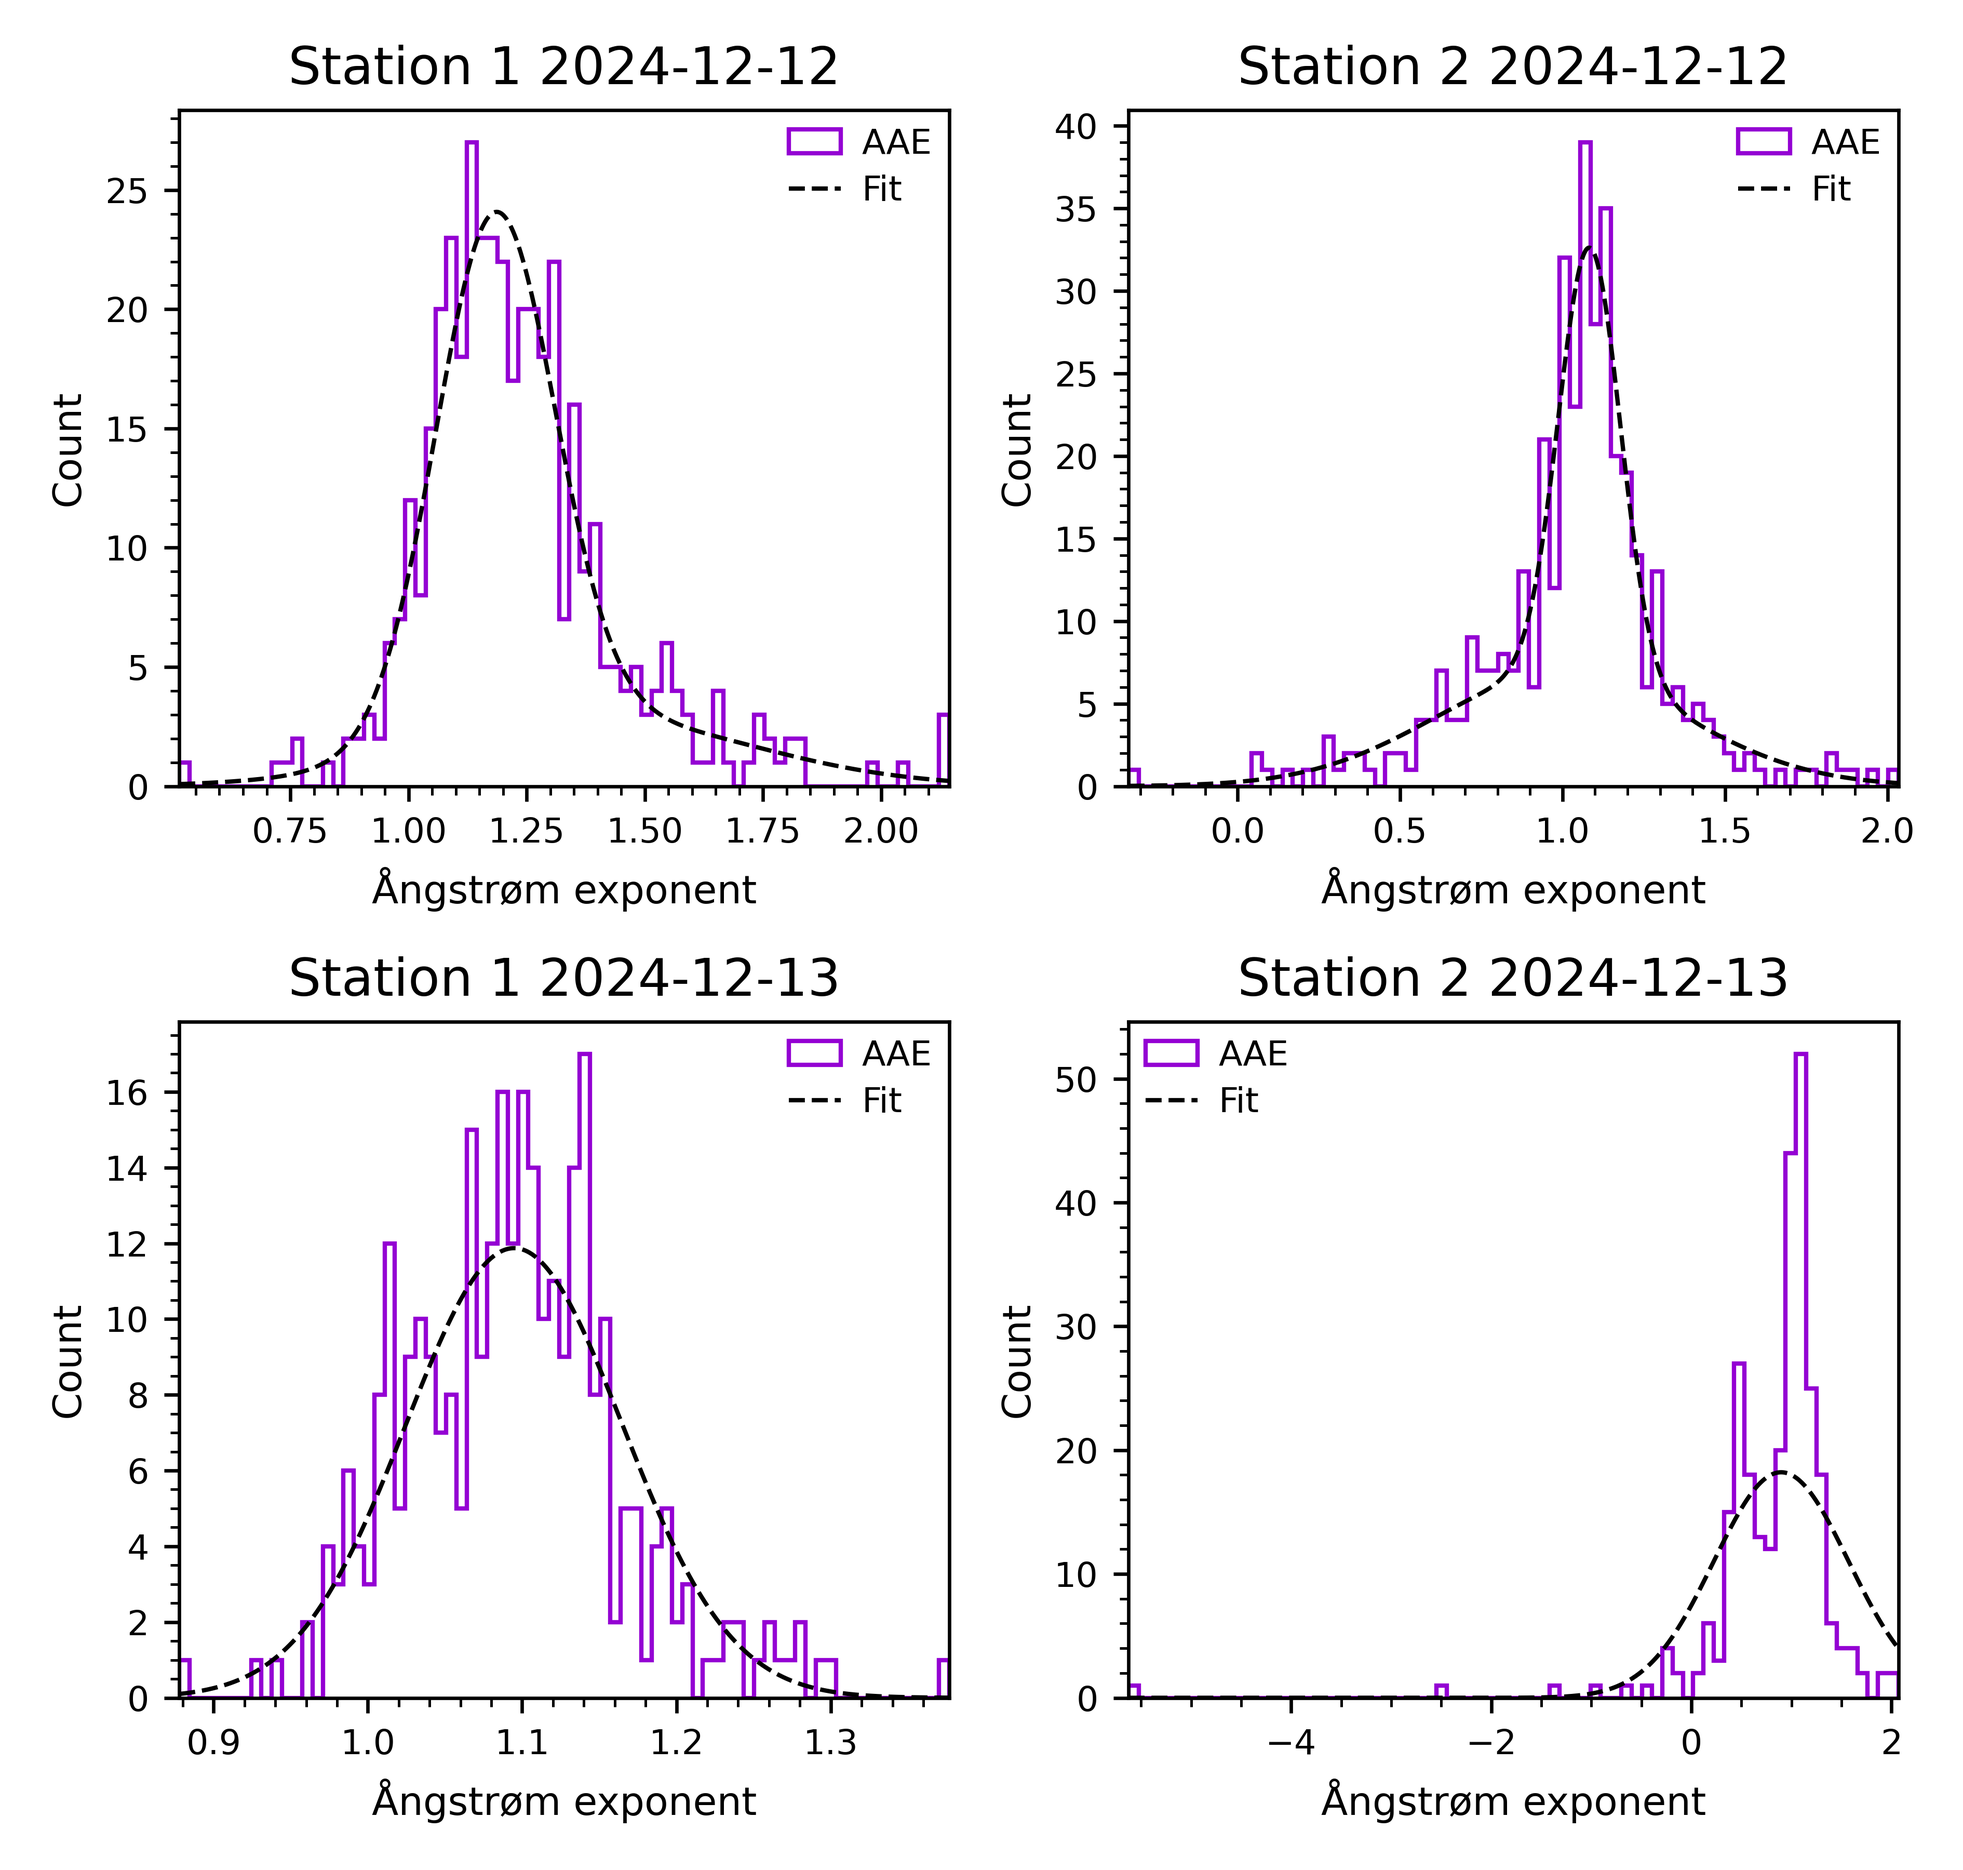
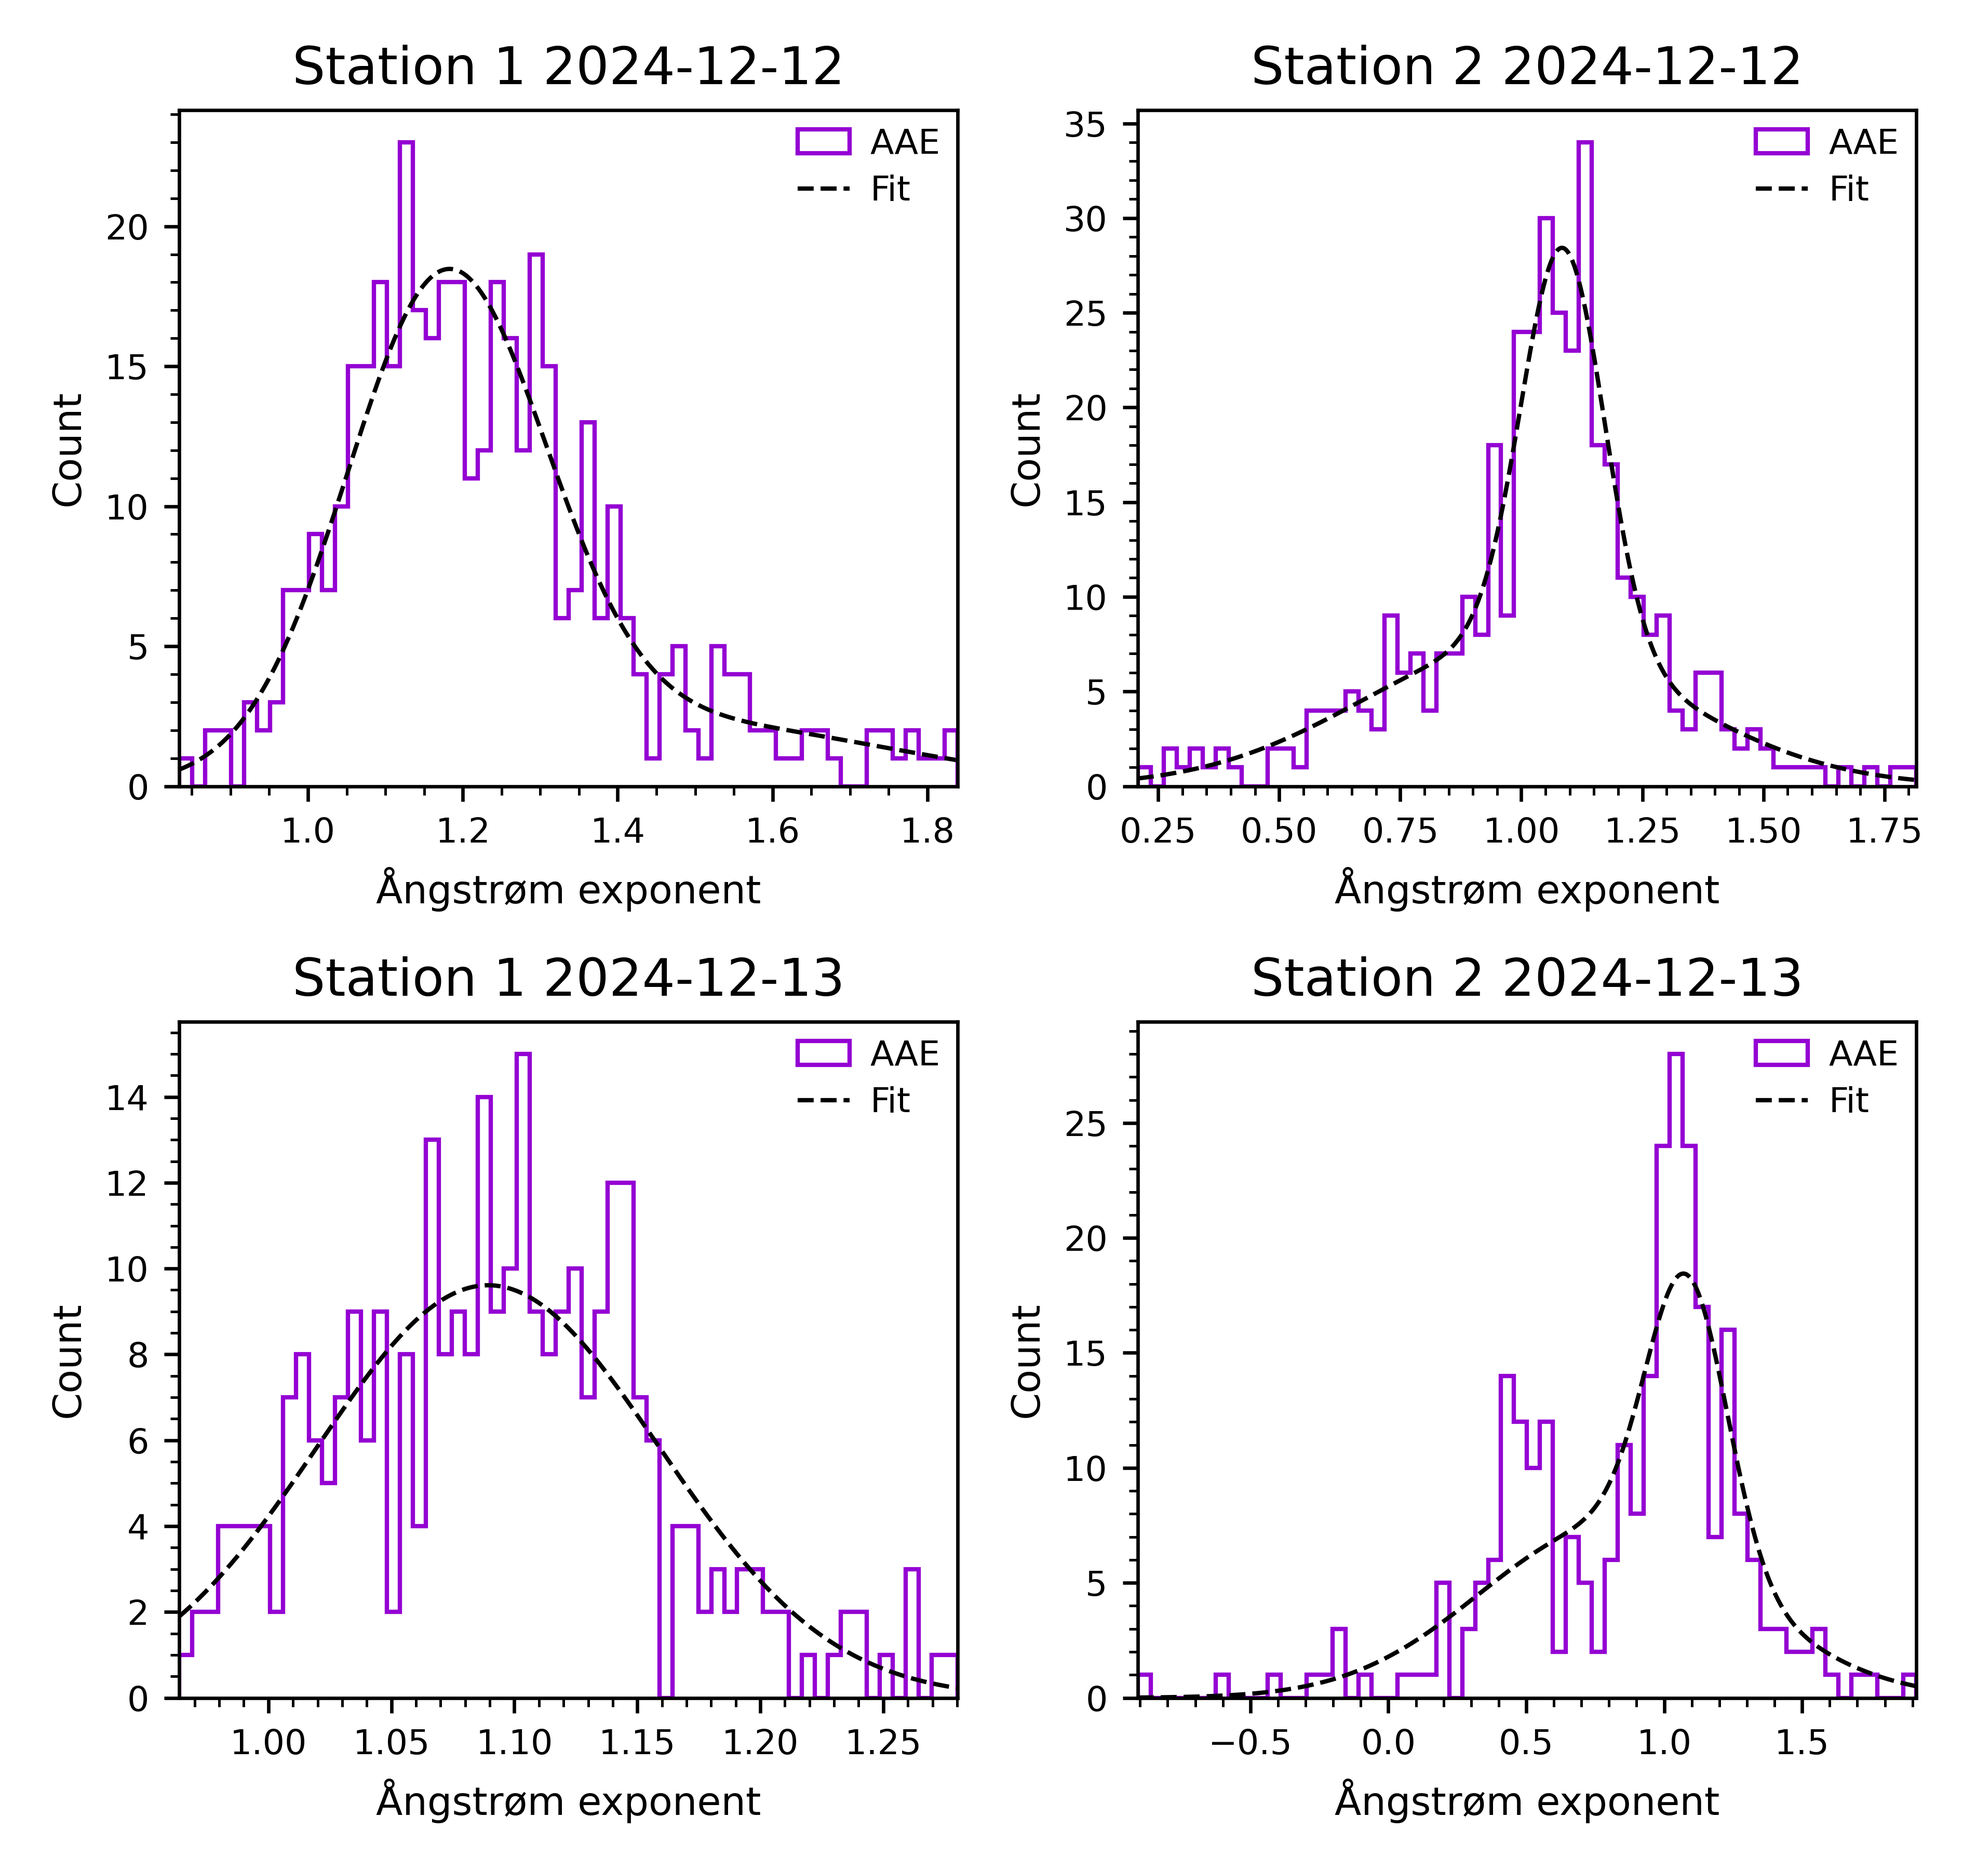
Update

diff --git a/plot_functions.py b/plot_functions.py
@@ -807,7 +807,7 @@ def MA_correction_multi(ax, df, keys, conc, xlabels, guess, lbl):
 
     return a_array, b_array, R2_array
 
-def AAE_hist(rows, columns, fig_size, data_dict, dict_keys, timestamps, Nbins, fit_func, initial_guess_list):
+def AAE_hist(rows, columns, fig_size, data_dict, dict_keys, timestamps, Nbins, fit_func, initial_guess_list, remove_outliers):
     fig1, ax1 = plt.subplots(rows, columns, figsize = fig_size)
     fig2, ax2 = plt.subplots(rows, columns, figsize = fig_size)
     fig3, ax3 = plt.subplots(rows, columns, figsize = fig_size)
@@ -826,6 +826,12 @@ def AAE_hist(rows, columns, fig_size, data_dict, dict_keys, timestamps, Nbins, f
             else:
                 print(timestamps[i][0])
                 AAE = AAE_calc(df, timestamps[i])
+
+            if remove_outliers:
+                q_low = AAE[AAE.keys()[j]].quantile(0.01)
+                q_high = AAE[AAE.keys()[j]].quantile(0.99)
+
+                AAE = AAE[(AAE[AAE.keys()[j]] < q_high) & (AAE[AAE.keys()[j]] > q_low)]
 
             AAE_plot = AAE[AAE.keys()[j]]
             AAE_plot = AAE_plot[np.isfinite(AAE_plot)]
